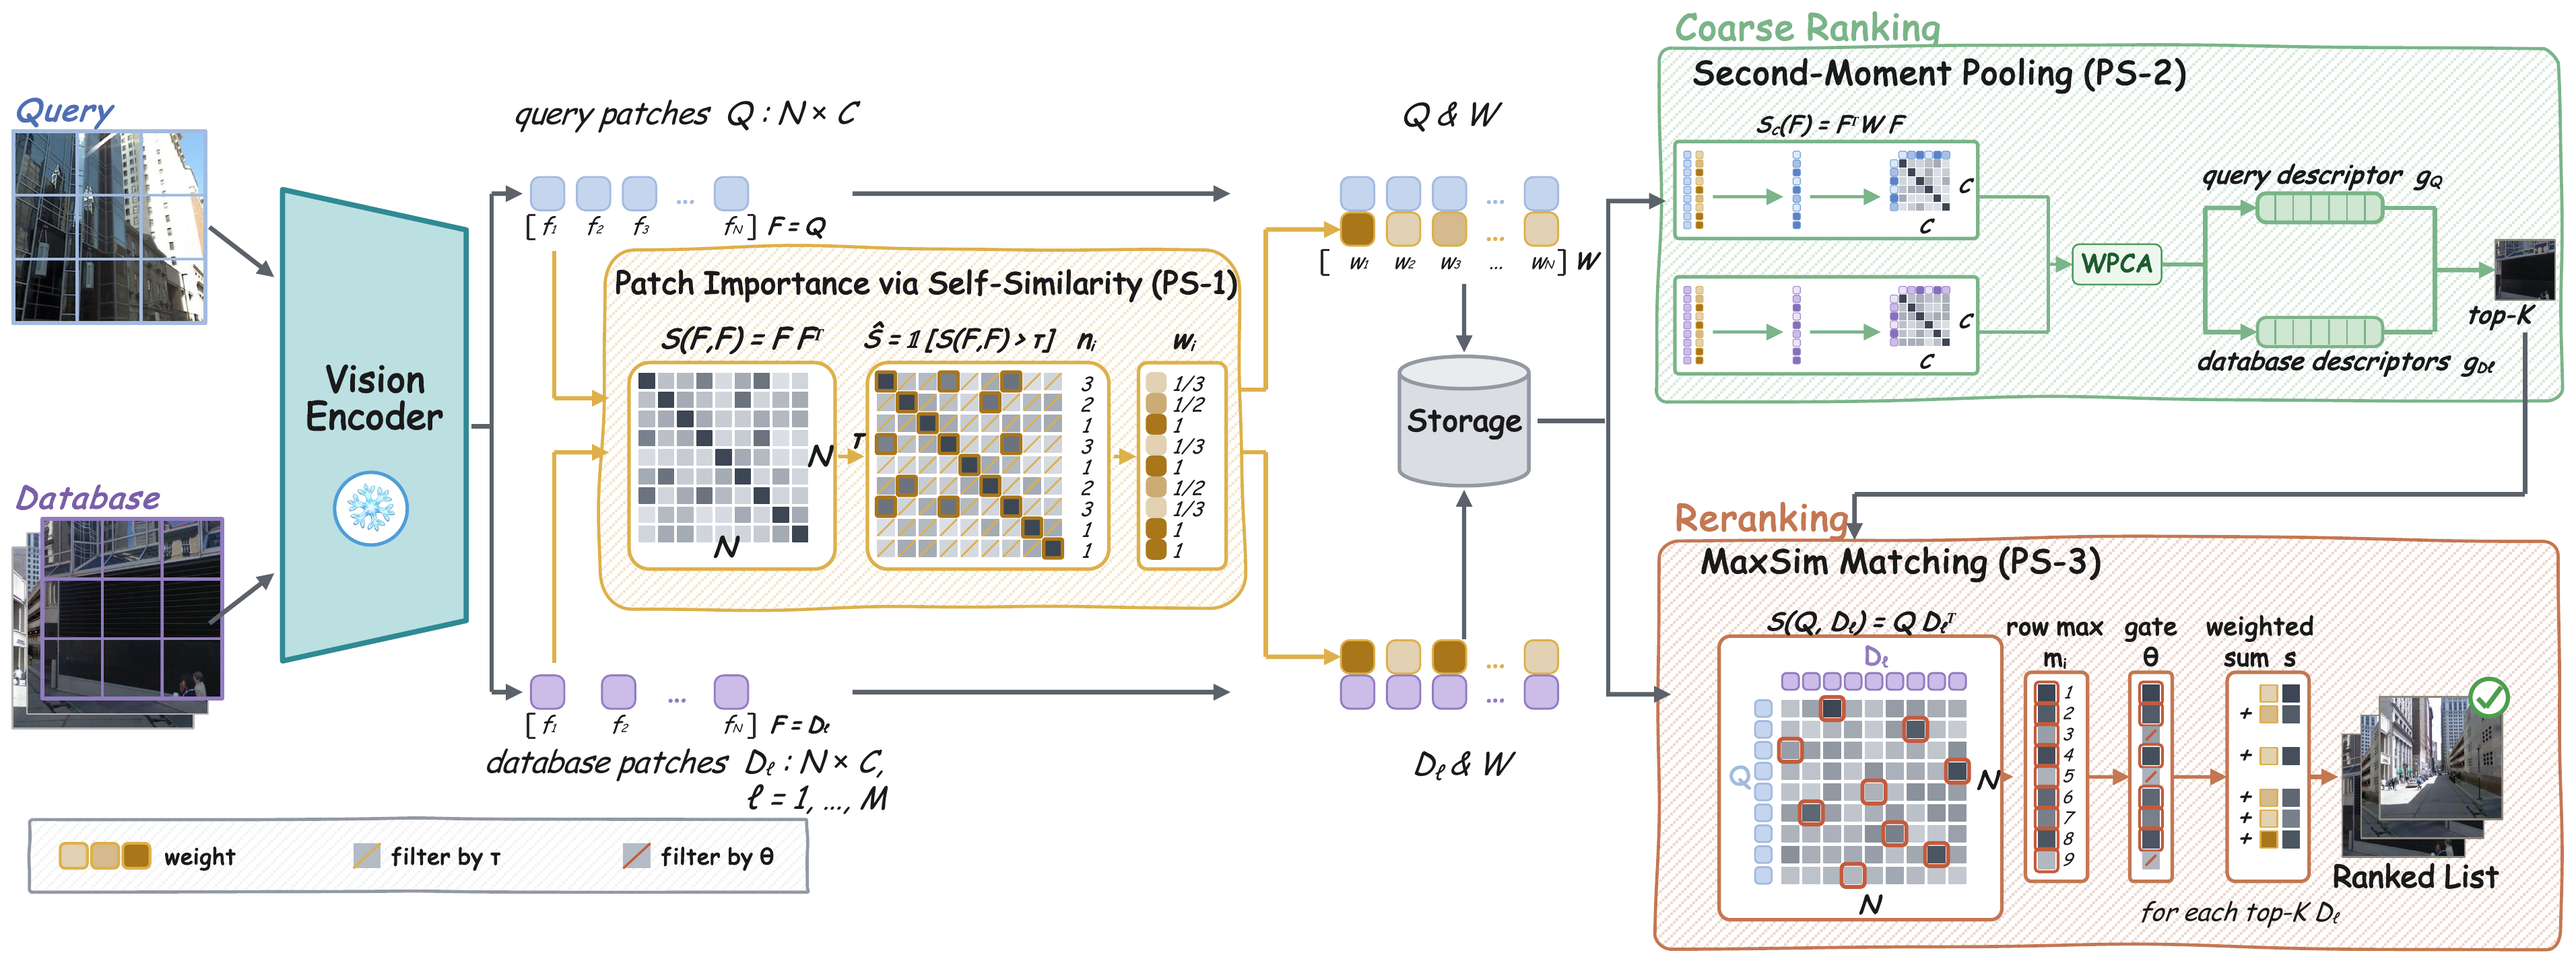
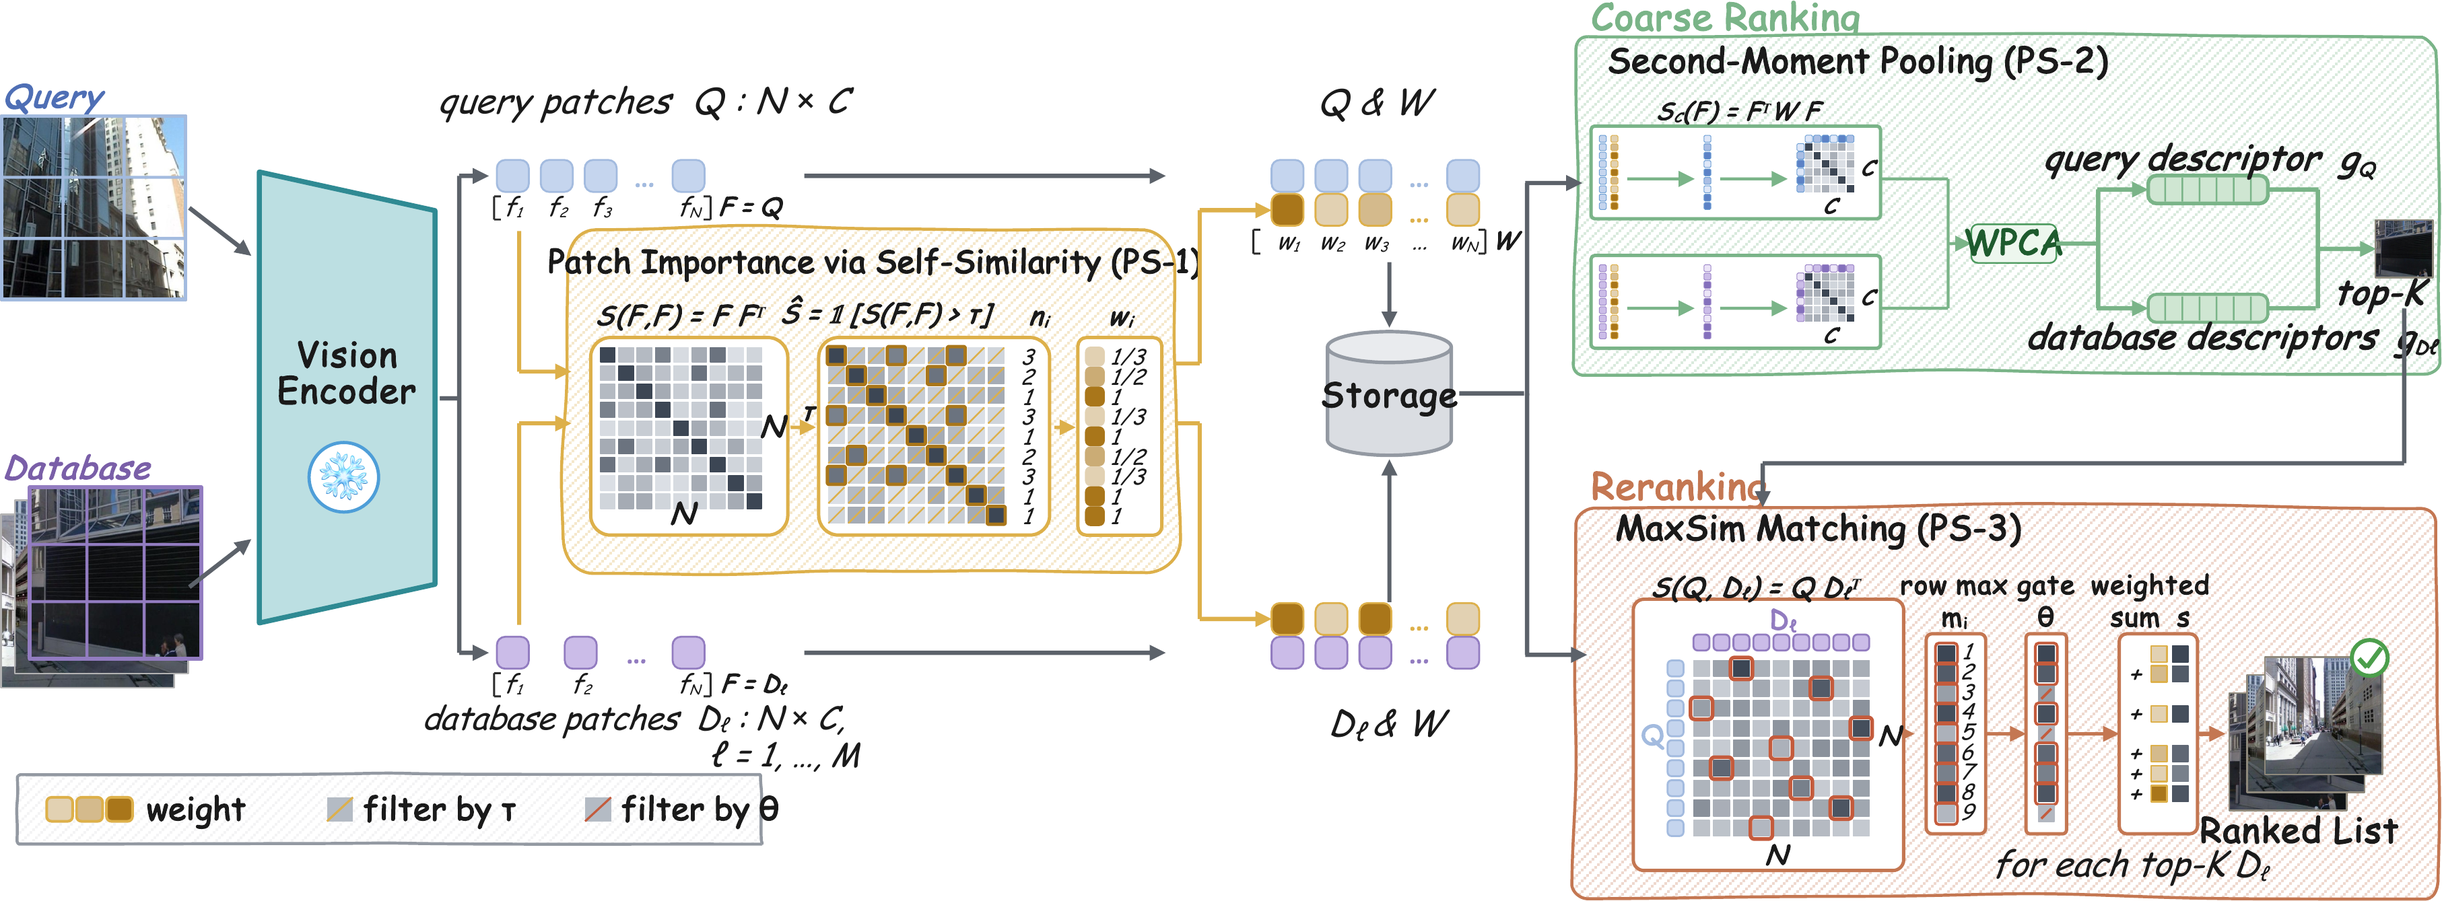
Figure 2: raise the type (free labels x1.45, dense ones x1.10-1.20), stop the boxes re-wrapping, and print it at full text width

diff --git a/sections/03_method.tex b/sections/03_method.tex
@@ -5,7 +5,7 @@
 % % Labels are identical to the current section so every cross-reference in the paper still resolves.
 % \begin{figure}[!htb]
 % \centering
-% \includegraphics[width=0.92\textwidth]{figures/method_fig_ppt.png}
+% \includegraphics[width=\textwidth]{figures/method_fig_ppt.png}
 % \caption{\textbf{Overview of the proposed method.} Each image is partitioned into patches and encoded by a frozen pretrained vision model. A single patch-to-patch similarity (PS) template $S(A,B)=AB^{\top}$ is used throughout: within an image it gives the patch weights $w_i{=}1/n_i$ (PS-1); applied to the weighted patch features of one image it gives its second-order descriptor for coarse ranking (PS-2); applied between the query and a candidate it gives the patch-to-patch \textsc{MaxSim} matching for fine ranking of the top-$K$ candidates (PS-3).}
 % \label{fig:method}
 % \end{figure}
@@ -73,7 +73,7 @@
 % Labels are identical to the current section so every cross-reference in the paper still resolves.
 \begin{figure}[!htb]
 \centering
-\includegraphics[width=0.92\textwidth]{figures/method_fig_ppt.png}
+\includegraphics[width=\textwidth]{figures/method_fig_ppt.png}
 \caption{Overview of the proposed method. Each image is partitioned into patches, whose features are extracted by a frozen vision encoder, and the patch similarity (PS) template is applied in three forms. PS-1 computes the self-similarity of each image, which gives the weight of every patch; features and weights are computed once and stored for both stages. PS-2 pools the weighted patch features into a second-moment matrix, reduced by whitened PCA to one descriptor per image, and coarse ranking shortlists the $K$ nearest database images. PS-3 performs weighted \textsc{MaxSim} matching between the query and each shortlisted image, and reranking sorts the shortlist by the matching score.}
 \label{fig:method}
 \end{figure}
